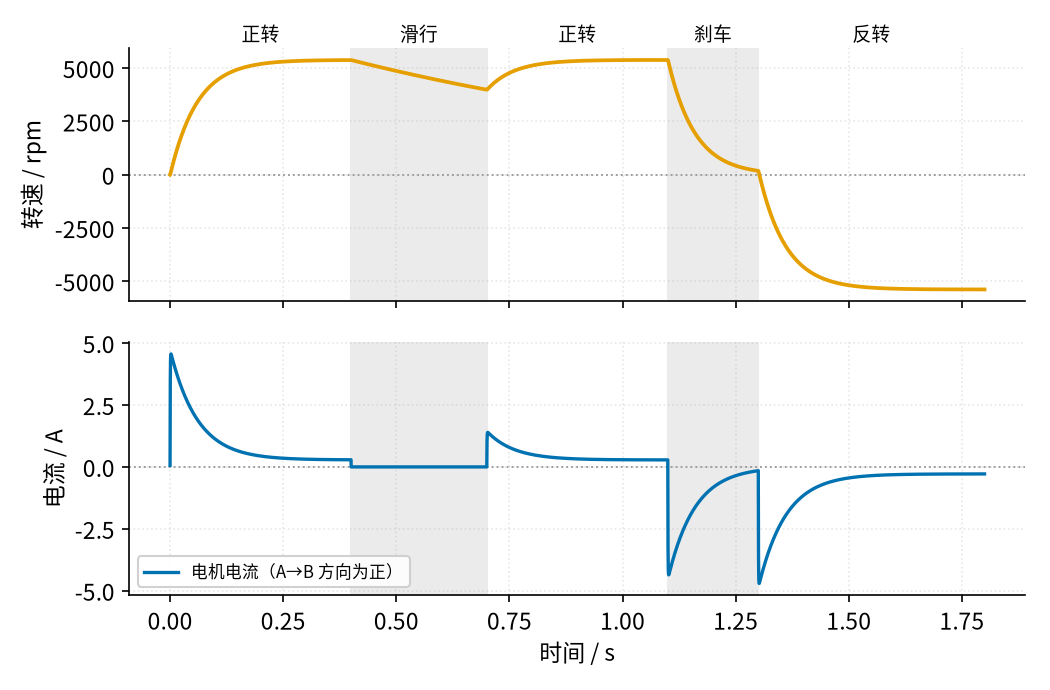
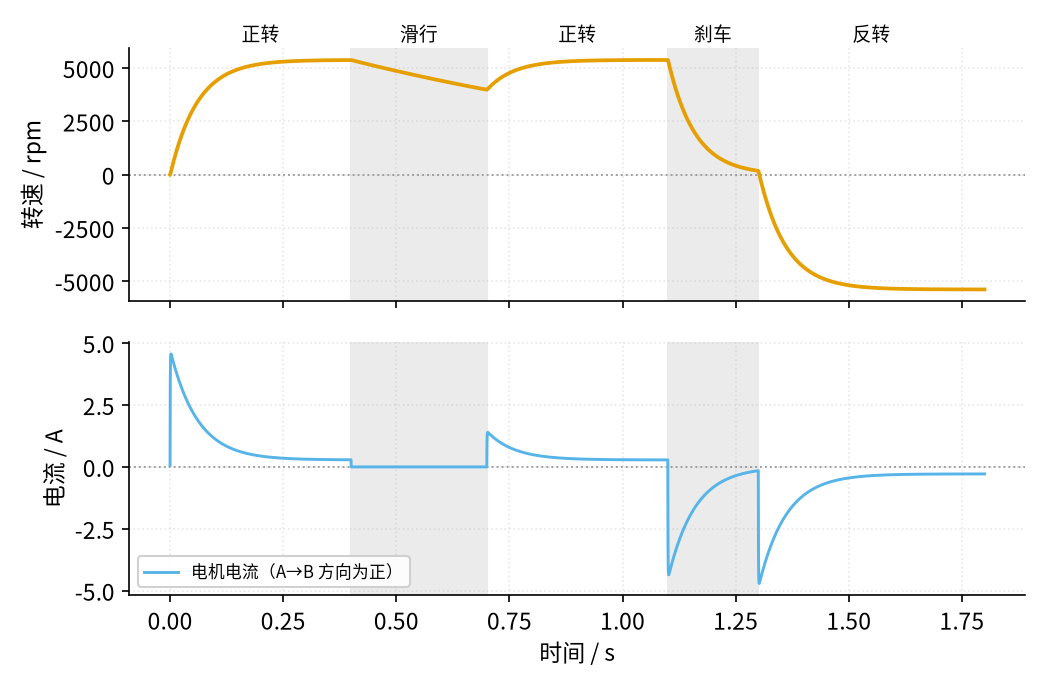
fix: H 桥电机驱动 复核修改

diff --git a/code/figs/25_figs.py b/code/figs/25_figs.py
@@ -16,7 +16,7 @@ _spec = importlib.util.spec_from_file_location("sim25", os.path.join(HERE, "..",
 sim = importlib.util.module_from_spec(_spec); _spec.loader.exec_module(sim)
 RPM = 60 / (2 * np.pi)
 ON = fs.LS["vout"]["color"]      # 电流路径：橙色
-BAD = fs.LS["bad"]["color"]      # 短路路径：红紫色
+BAD = fs.LS["bad"]["color"]      # 短路路径：朱红色
 OFF = "#8c8c8c"
 
 
@@ -98,7 +98,7 @@ def fig_p1_3():
     ax[0].plot(t, W * RPM, **fs.LS["vout"], label="转速")
     fs.ref_h(ax[0], 0)
     fs.axlabels(ax[0], "时间", "s", "转速", "rpm"); ax[0].set_xlabel("")
-    ax[1].plot(t, I, **fs.LS["vin"], label="电机电流（A→B 方向为正）")
+    ax[1].plot(t, I, **fs.LS["cur"], label="电机电流（A→B 方向为正）")
     fs.ref_h(ax[1], 0)
     ax[1].legend(loc="lower left", fontsize=8)
     fs.axlabels(ax[1], "时间", "s", "电流", "A")

diff --git a/code/25_sim.py b/code/25_sim.py
@@ -101,7 +101,7 @@ if __name__ == "__main__":
     f = 20e3
     fig, axes = plt.subplots(2, 1, figsize=fs.SIZE["tall"], sharex=False)
     ax = axes[0]
-    styles = [("ref", 0.25), ("vin", 0.50), ("vout", 0.75)]
+    styles = [("third", 0.25), ("vin", 0.50), ("vout", 0.75)]
     for key, d in styles:
         t, I, W, V = run(pwm_schedule(d, f), 0.4, dt=0.5e-6)   # 每个 PWM 周期正好 100 步
         ax.plot(t * 1e3, W * 60 / (2 * np.pi), **{**fs.LS[key], "lw": 1.3}, label=f"占空比 {d:.0%}：稳定在 {W[-20000:].mean()*60/2/np.pi:.0f} rpm")

diff --git a/25-h-bridge/page2.md b/25-h-bridge/page2.md
@@ -22,7 +22,7 @@
 看图 25-p2-1 时注意三点：
 
 - **Q1 和 Q3 组成左半桥，Q2 和 Q4 组成右半桥**。每个半桥的中点（A、B）接电机。
-- **上管的栅极驱动比下管难**。Q1 导通时它的源极就是 A 点，会升到接近 12 V，栅极必须比 12 V 再高几伏。这正是 21 节「高边开关」讲过的问题，实际电路用带「自举」电路的专用驱动芯片解决（[TI SLUA618](https://www.ti.com/lit/pdf/slua618) 第 5.2 节）。也有人上管改用 P 沟道管，驱动简单一些，但 P 沟道管导通电阻通常更大。
+- **上管的栅极驱动比下管难**。Q1 导通时它的源极就是 A 点，会升到接近 12 V，栅极必须比 12 V 再高几伏。这正是 21 节「高边开关」讲过的问题，实际电路用带「自举」电路的专用驱动芯片解决。**自举**的意思是：下管导通、A 点接近 0 V 时，先给一只小电容充上约 10 V（数值是示意）；等上管要导通、A 点升到 12 V，这只电容「骑」在 A 点上，把上管的栅极电压垫高到约 12 + 10 = 22 V，比源极高出 10 V（[TI SLUA618](https://www.ti.com/lit/pdf/slua618) 第 5.2 节）。也有人上管改用 P 沟道管，驱动简单一些，但 P 沟道管导通电阻通常更大。
 - **体二极管就是现成的续流通路**。22 节说过，电感电流不能突然断掉；四只管子全部关断时，电机电流会经过一对体二极管流回电源，不会产生击穿管子的高压。TI 的应用笔记把这一点总结为：电感电流必须有路可走，否则会损坏开关（[TI SLVA321A](https://www.ti.com/lit/an/slva321a/slva321a.pdf)）。
 
 储能电容 $C_B$ 不能省：PWM 每开关一次，电源线上都要突然多拿或少拿一份电流，长导线的电感会让电源电压跳动；电容就近供应这份电流。DRV8871 的手册在电源引脚说明里也要求接 0.1 µF 旁路电容和「足够的」储能电容（[TI DRV8871 数据手册](https://www.ti.com/lit/ds/symlink/drv8871.pdf) 引脚功能表）。
@@ -60,7 +60,7 @@ $$\bar{V} = \frac{V_M \cdot DT + 0 \cdot (1-D)T}{T} = D \cdot V_M$$
 
 中文意思：**平均电压 = 占空比 × 电源电压**。12 V 电源、占空比 50%，电机「感受到」的就是 6 V。
 
-为什么电机只看平均值？因为电机的电感让电流来不及跟着电压跳。驱动期间电感两端的电压约是 $V_M - e \approx V_M (1-D)$ ，持续 $D/f$ ，电流上升
+为什么电机只看平均值？因为电机的电感让电流来不及跟着电压跳。驱动期间电感两端的电压约是 $V_M - e \approx V_M (1-D)$ （稳定以后，反电动势 e 约等于平均电压 $D \cdot V_M$ ，线圈电阻上那点压降先忽略），持续 $D/f$ ，电流上升
 
 $$\Delta I \approx \frac{V_M \cdot D (1-D)}{L f}$$
 
@@ -68,13 +68,13 @@ $$\Delta I \approx \frac{V_M \cdot D (1-D)}{L f}$$
 
 ## 推导三：刹车为什么比滑行停得快
 
-刹车时电机两端被两只下管短接，电机变成发电机，电流 $I = -e / (R + 2R_{LS})$ 。这个电流产生的转矩和转动方向相反，大小正比于转速。转速按指数规律下降，时间常数为
+刹车时电机两端被两只下管短接，电机变成发电机，电流 $I = -e / (R + 2R_{LS})$ 。这个电流产生的转矩和转动方向相反，大小正比于转速。这里的三个新量可以按「转动版的牛顿第二定律 F = ma」来理解：**转矩**就是让电机转动的「力」（准确说是力矩），等于 $K_e \times$ 电流，这个 $K_e$ 和反电动势公式 $e = K_e \omega$ 里的是同一个电机常数；**转动惯量 J** 相当于转动时的「质量」，表示转子有多「沉」、多难转起来或停下来；**摩擦系数 b** 让摩擦转矩等于 $b \omega$ ，转得越快摩擦越大。于是「转速的变化快慢 = (转矩 − 摩擦转矩) / J」，代码里 `w += (KE * i - B * w) / J * DT` 就是这一句。转速按指数规律下降，时间常数为
 
 $$\tau_{刹车} = \frac{J}{K_e^2 / (R + 2R_{LS}) + b}$$
 
 中文意思：**电机常数越大、回路电阻越小，刹车越猛**。本节 $J = 10^{-5}\text{ kg·m}^2$ 、 $R + 2R_{LS} = 2.516\text{ Ω}$ 、摩擦系数 $b = 10^{-5}$ ，算出 $\tau_{刹车} \approx 59\text{ ms}$ ，降到 10% 要 $2.3 \tau \approx 136\text{ ms}$ 。
 
-滑行时四管全关，电流只能经体二极管回灌电源。电感两端被加上约 $-(V_M + 2V_D)$ 的反向电压，电流在十几微秒内就降到 0，这叫**快衰减**；之后电机里没有电流，只靠摩擦减速，时间常数 $J/b = 1\text{ s}$ 。刹车让电流在下管里慢慢循环，叫**慢衰减**（[TI SLVA321A](https://www.ti.com/lit/an/slva321a/slva321a.pdf) 对这两种衰减方式有详细的对比，并指出对直流电机，慢衰减会把反电动势短路，使转子很快停下）。
+滑行时四管全关，电流只能经体二极管回灌电源。电感两端的反向电压约为 $-(V_M + 2V_D + e) \approx -(12 + 1.6 + 11.3) \approx -25\text{ V}$ （ $V_D$ ≈ 0.8 V 是体二极管的压降；全速时电机还在转，反电动势 $e = 0.02 \times 563 \approx 11.3\text{ V}$ 和电源同向相加），全速时的电流约 0.28 A（稳定时转矩等于摩擦转矩， $I = b\omega / K_e = 10^{-5} \times 563 / 0.02$ ），它约 $0.28 \times 10^{-3} / 25 \approx 11\text{ µs}$ 就降到 0，这叫**快衰减**；之后电机里没有电流，只靠摩擦减速，时间常数 $J/b = 1\text{ s}$ 。刹车让电流在下管里慢慢循环，叫**慢衰减**（[TI SLVA321A](https://www.ti.com/lit/an/slva321a/slva321a.pdf) 对这两种衰减方式有详细的对比，并指出对直流电机，慢衰减会把反电动势短路，使转子很快停下）。
 
 ## 代数小结
 
@@ -87,9 +87,12 @@ $$\tau_{刹车} = \frac{J}{K_e^2 / (R + 2R_{LS}) + b}$$
 
 ## 仿真：20 kHz PWM 调速
 
-下面的程序逐步计算电机的电流和转速。每 0.5 µs 走一步，判断这一刻是「驱动」还是「刹车」，再用推导一的公式更新电流和转速。
+下面的程序逐步计算电机的电流和转速。每 0.5 µs 走一步，判断这一刻是「驱动」还是「刹车」，再用推导一的公式更新电流和转速。图里有中文标签，所以开头借用教程的 figstyle 设置中文字体（不然中文会显示成方框）；请在仓库根目录运行。
 
 ```python
+import sys, pathlib
+sys.path.insert(0, str(pathlib.Path("code/figs").resolve()))  # 在仓库根目录运行
+import figstyle                         # 只借用它设置中文字体
 import numpy as np                      # 数值计算
 import matplotlib                       # 画图库
 matplotlib.use("Agg")                   # 不弹窗口，直接存图
@@ -127,7 +130,7 @@ fig.savefig("hbridge_pwm.png", dpi=100)
 print("已保存 hbridge_pwm.png")
 ```
 
-教程仓库里 `code/25_sim.py` 是这段程序的完整版，它画出了下面的图 25-p2-2。
+教程仓库里 `code/25_sim.py` 是这段程序的完整版，它画出了下面的图 25-p2-2。上面的简化版只画转速、用默认配色，所以你得到的图和下图样子不同，但打印的数字应当一致。
 
 ![图 25-p2-2 PWM 调速仿真](img/25_p2_2_pwm.png)
 
@@ -135,7 +138,7 @@ print("已保存 hbridge_pwm.png")
 
 读图 25-p2-2：
 
-- 上图里灰色点线（25%）、蓝色（50%）、橙色（75%）三条转速曲线分别稳定在 1346、2690、4034 rpm，**正好是 1 : 2 : 3**，说明转速确实正比于占空比。平均模型（把电压当作 $D \cdot V_M$ 的直流）算出的是 1347、2694、4039 rpm，误差不到 0.2%。
+- 上图里红紫色点划线（25%）、蓝色（50%）、橙色（75%）三条转速曲线分别稳定在 1346、2690、4034 rpm，**正好是 1 : 2 : 3**，说明转速确实正比于占空比。平均模型（把电压当作 $D \cdot V_M$ 的直流）算出的是 1347、2694、4039 rpm，误差不到 0.2%。
 - 下图里蓝色电压在 12 V 和 0 V 之间来回跳，橙色电流却只是一条小锯齿：驱动时上升，刹车时下降，峰峰值 0.150 A，和推导二的 0.15 A 一致。
 - 起动大约要 0.2 s，这是转子惯量决定的，和 PWM 频率无关。
 

diff --git a/25-h-bridge/page3.md b/25-h-bridge/page3.md
@@ -34,7 +34,7 @@ DRV8871 手册在应用部分还用了好几段讲储能电容：电容太小，
 
 ## 2. 扫描一：死区时间从 0 到 400 ns
 
-分立 H 桥要自己安排死区。下面用一个示意模型来扫描：每只管子从导通到关断（或反过来）的过渡都要 200 ns，过渡期间它的电阻从 25 mΩ（IRLZ44N 的导通电阻）逐渐变成断开；电源回路有 20 nH 的走线电感。让同一侧的上管开始关断，同时等一个死区时间再让下管开始导通，计算从电源直接流过两只管子的「直通电流」。
+分立 H 桥要自己安排死区。下面用一个示意模型来扫描：每只管子从导通到关断（或反过来）的过渡都要 200 ns，过渡期间它的电阻从 25 mΩ（IRLZ44N 的导通电阻）逐渐变成断开；电源回路有 20 nH 的走线电感。让同一侧的上管开始关断，同时等一个死区时间再让下管开始导通，计算从电源直接流过两只管子的「直通电流」。这个模型写在 `code/25_sim.py` 的 `shoot_through` 函数里；下面的图和表中的数字（峰值电流、每次能量、功率）都由 `code/figs/25_figs.py` 算出并打印（输出里「死区 / ns → 直通峰值」那几行）。想自己核对，在仓库根目录运行 `python code/figs/25_figs.py` 即可，它会重新生成同样的配图。
 
 ![图 25-p3-1 死区时间扫描](img/25_p3_1_deadtime.png)
 
@@ -83,15 +83,15 @@ DRV8871 手册在应用部分还用了好几段讲储能电容：电容太小，
 | 现象 | 原因 | 怎么查 | 怎么改 |
 |---|---|---|---|
 | 一上电或一换向，MOS 管烧坏、电源保险丝熔断 | 同一侧上下管同时导通（直通），死区为 0 或不够长 | 示波器同时看同一侧两只管子的栅极波形，看有没有重叠；看电源电流在切换瞬间有没有尖峰 | 死区不短于开关过渡时间；软件里先关断、等待、再导通；改用带死区和互锁的驱动芯片 |
-| 电机停机或换向时电源电压冒高，稳压器或电容损坏 | 滑行时电机电流经体二极管回灌电源，电源吸收不了（例如电源前面串了防反接二极管） | 示波器看 $V_M$ 在关断瞬间的电压上冲 | 加大靠近桥的储能电容，并选更高的耐压；减速用刹车而不是滑行；在 $V_M$ 上加 TVS 管 |
+| 电机停机或换向时电源电压冒高，稳压器或电容损坏 | 滑行时电机电流经体二极管回灌电源，电源吸收不了（例如电源前面串了防反接二极管：一只串在电源入口、防止电源正负接反的二极管，它只许电流流进来，回灌的电流就无处可去） | 示波器看 $V_M$ 在关断瞬间的电压上冲 | 加大靠近桥的储能电容，并选更高的耐压；减速用刹车而不是滑行；在 $V_M$ 上加 TVS 管（一种保护二极管：电压超过某个值就导通，把尖峰吸掉） |
 | 电机发出尖锐的叫声 | PWM 频率落在 20 Hz–20 kHz 的可听范围 | 示波器或频率计测输入 PWM 频率 | 提高到 20 kHz 以上，同时检查管子温升 |
-| 一个方向转得很弱或不转，上管很烫 | 上管是 N 沟道管，栅极电压没有比源极高出几伏，管子工作在半导通状态 | 测上管的 $V_{GS}$ （栅极减源极），不是栅极对地的电压 | 用带自举或电荷泵的栅极驱动；或上管改用 P 沟道管 |
+| 一个方向转得很弱或不转，上管很烫 | 上管是 N 沟道管，栅极电压没有比源极高出几伏，管子工作在半导通状态 | 测上管的 $V_{GS}$ （栅极减源极），不是栅极对地的电压 | 用带自举（见原理与实现篇）或电荷泵（用电容和开关把电压「抬高」到电源以上的小电路）的栅极驱动；或上管改用 P 沟道管 |
 | 电机起动时一顿一顿，每隔几毫秒停一下 | 起动电流超过 $I_{OCP}$ ，芯片过流保护关断 3 ms 后重试，再次过流 | 示波器看电机电流，出现周期约 3 ms 的断续 | 按上面的表选 $R_{ILIM}$ ，让芯片限流而不是保护关断；占空比从 0 慢慢升高（软起动） |
 | 低速时电机抖动、发热大 | PWM 频率太低，电流纹波大到过零 | 用采样电阻看电流波形 | 提高 PWM 频率，或选电感更大的电机 |
 
 ## 5. 练习
 
-**练习 1**：用 DRV8871 驱动一个电机，希望限流约 1.5 A。 $R_{ILIM}$ 选多大？考虑 59–69 kV 的系数范围，实际限流值在什么范围？
+**练习 1（易）**：用 DRV8871 驱动一个电机，希望限流约 1.5 A。 $R_{ILIM}$ 选多大？考虑 59–69 kV 的系数范围，实际限流值在什么范围？
 
 <details><summary>答案</summary>
 
@@ -99,7 +99,7 @@ $R_{ILIM} = 64\text{ kV} / 1.5\text{ A} \approx 42.7\text{ kΩ}$ ，取标准值
 
 </details>
 
-**练习 2**：一个分立 H 桥 PWM 频率 20 kHz，死区设为 50 ns，而管子的过渡时间是 200 ns（与本页模型相同）。每个半桥因直通多出多少发热？把死区改为 250 ns 后呢？
+**练习 2（中）**：一个分立 H 桥 PWM 频率 20 kHz，死区设为 50 ns，而管子的过渡时间是 200 ns（与本页模型相同）。每个半桥因直通多出多少发热？把死区改为 250 ns 后呢？
 
 <details><summary>答案</summary>
 
@@ -107,7 +107,7 @@ $R_{ILIM} = 64\text{ kV} / 1.5\text{ A} \approx 42.7\text{ kΩ}$ ，取标准值
 
 </details>
 
-**练习 3**：另一个电机线圈电感 0.5 mH，电源 12 V。要求最坏情况（占空比 50%）下电流纹波不超过 0.2 A，PWM 频率至少多少？这个频率会被听到吗？
+**练习 3（中）**：另一个电机线圈电感 0.5 mH，电源 12 V。要求最坏情况（占空比 50%）下电流纹波不超过 0.2 A，PWM 频率至少多少？这个频率会被听到吗？
 
 <details><summary>答案</summary>
 
@@ -115,7 +115,7 @@ $f \ge V_M D(1-D) / (L \cdot \Delta I) = 12 \times 0.25 / (0.5 \times 10^{-3} \t
 
 </details>
 
-**练习 4（变体迁移）**：要驱动一个 24 V、额定 8 A 的电机（比如电动车窗）。还能用 DRV8871 吗？如果改用四只分立 MOS 管，本节的哪些功能需要你自己补上？
+**练习 4（难，变体迁移）**：要驱动一个 24 V、额定 8 A 的电机（比如电动车窗）。还能用 DRV8871 吗？如果改用四只分立 MOS 管，本节的哪些功能需要你自己补上？
 
 <details><summary>答案</summary>
 

diff --git a/25-h-bridge/page1.md b/25-h-bridge/page1.md
@@ -25,7 +25,7 @@
 
 下面的图 25-p1-1 把两种情况画了出来，橙色是电流走过的路线，灰色是断开的开关。
 
-![图 25-p1-1 H 桥的正转与反转](img/25_p1_1_paths.png)
+![图 25-p1-1 H 桥的正转与反转：左图 S1、S4 闭合，橙色电流从左上经电机 A 到 B 再到右下；右图 S2、S3 闭合，橙色电流反向从 B 到 A；断开的开关画成灰色](img/25_p1_1_paths.png)
 
 *图 25-p1-1　H 桥的两种驱动状态：S1、S4 闭合时电流从 A 流向 B（正转）；S2、S3 闭合时电流从 B 流向 A（反转）*
 
@@ -35,7 +35,7 @@
 
 四个开关一共有 16 种组合，真正有用的除了正转、反转，还有两种需要特别认识。下面的图 25-p1-2 左边是「刹车」，右边是「直通」。
 
-![图 25-p1-2 刹车与直通](img/25_p1_2_brake_short.png)
+![图 25-p1-2 刹车与直通：左图下面两个开关闭合，电机两端被短接，电流在电机和两个下开关之间打转；右图左侧上下两个开关同时闭合，朱红色路径从电源直接到地](img/25_p1_2_brake_short.png)
 
 *图 25-p1-2　左：两个下面的开关 S3、S4 闭合，电机两端被短接，转动的电机变成发电机，自己产生的电流让它很快停下（刹车）；右：同一侧的 S1、S3 同时闭合，电源经两个开关直接短路（直通），必须禁止*
 
@@ -47,9 +47,9 @@
 
 把这几种状态串起来，看看电机的反应。下面的图 25-p1-3 是仿真结果：一台 12 V 小电机先正转，再「滑行」（四个开关全断开），再正转，然后「刹车」，最后直接反转。
 
-![图 25-p1-3 正转、滑行、刹车、反转的转速与电流](img/25_p1_3_sequence.png)
+![图 25-p1-3 正转、滑行、刹车、反转的转速与电流：上图橙色转速在正转时升到约 5400 rpm，滑行时缓慢下降，刹车时很快降到 0，反转时变成负值；下图天蓝色电流在起动和刹车时出现尖峰](img/25_p1_3_sequence.png)
 
-*图 25-p1-3　同一台电机依次经历正转、滑行、正转、刹车、反转（灰色底为滑行和刹车）：上图为转速，橙色；下图为电流，蓝色，A 流向 B 为正*
+*图 25-p1-3　同一台电机依次经历正转、滑行、正转、刹车、反转（灰色底为滑行和刹车）：上图为转速，橙色；下图为电流，天蓝色，A 流向 B 为正*
 
 从图 25-p1-3 能读出三件事：
 
@@ -59,7 +59,9 @@
 
 ## 调速：开关飞快地开合
 
-转速怎么调？最直接的想法是给电机一个较低的电压，但电源是固定的 12 V。H 桥的办法是：让 S1 以每秒两万次的速度开、合（S4 一直闭合）。电机里有线圈（电感），电流来不及跟着跳，它「感受到」的只是平均电压。闭合的时间占一半，平均就是 6 V；占四分之三，就是 9 V。这种方法叫 **PWM**（脉冲宽度调制），闭合时间所占的比例叫**占空比**。原理与实现篇会推导它，并回答「为什么常选 20 kHz」。
+转速怎么调？最直接的想法是给电机一个较低的电压，但电源是固定的 12 V。H 桥的办法是：让 S1 以每秒两万次的速度开、合（S4 一直闭合）。电机里有线圈（电感），电流来不及跟着跳，它「感受到」的只是平均电压。闭合的时间占一半，平均就是 6 V；占四分之三，就是 9 V。这种方法叫 **PWM**（脉冲宽度调制），闭合时间所占的比例叫**占空比**（这两个词在 [21 MOS 管开关 · 直觉篇](../21-mosfet-switch/page1.md) 已经介绍过，这里是同一个意思）。原理与实现篇会推导它，并回答「为什么常选 20 kHz」。
+
+可以把它想成推秋千：你不必一直用力推，只要每次在同一个节奏里推一小下，秋千就稳定地荡到某个高度；每次推的时间长一点，荡得就高一点。电机的转子很「沉」，开关每秒开合两万次，它根本来不及跟着一开一合加速、减速，只会按「平均推了多少」转到一个稳定的速度。电脑风扇、遥控小车、电动车的调速把手，用的都是这个办法。
 
 ## 一句话
 
